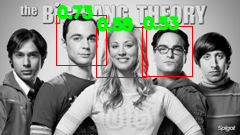
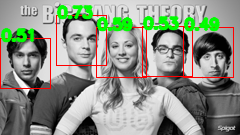
fix some TINY errors

Changed region(s): [[0.7583, 0.1185, 0.9917, 0.5926], [0.0, 0.2074, 0.2333, 0.6815], [0.4958, 0.1185, 0.5542, 0.237]]

diff --git a/Homework2/HOG_ver1.py b/Homework2/HOG_ver1.py
@@ -6,7 +6,7 @@ import matplotlib.pyplot as plt
 def get_differential_filter():
     # TODO: implement this function
     # 3 by 3 Sobel filter
-    filter_x = np.array([[-1, 0, 1], [-2, 0, 2], [-1, 0, 1]])
+    filter_x = np.array([[1, 0, -1], [2, 0, -2], [1, 0, -1]])
     filter_y = np.array([[1, 2, 1], [0, 0, 0], [-1, -2, -1]])
     return filter_x, filter_y
 
@@ -45,7 +45,7 @@ def build_histogram(grad_mag, grad_angle, cell_size):
     
     bins = [np.deg2rad(d) for d in range(15, 180, 30)]
     ind = np.digitize(grad_angle, bins)
-    ind = np.where(ind == 6, 0, ind)
+    ind = np.where(ind == 6, 0, ind)    # [165, 180) and [0, 15) is in the same index
     for i in range((h // cell_size) * cell_size):
         ii = i // cell_size
         for j in range((w // cell_size) * cell_size):
@@ -116,7 +116,7 @@ def face_recognition(I_target, I_template):
     # Use thresholing and NMS(non-maximum suppresion) with IoU 50%
     # bounding boxes: array of (x, y, s)
     # s: NCC(normalized cross-correlation) between the bounding box patch and the template
-    threshold_NCC = 0.5
+    threshold_NCC = 0.45
     threshold_IoU = 0.5
     target_h, target_w = I_target.shape
     template_h, template_w = I_template.shape
@@ -132,7 +132,7 @@ def face_recognition(I_target, I_template):
             patch_hog = extract_hog(patch)
             a = patch_hog.flatten()
             a -= np.mean(a)
-            s = np.dot(a, b) / (np.linalg.norm(a, 2) * np.linalg.norm(b, 2))
+            s = abs(np.dot(a, b) / (np.linalg.norm(a) * np.linalg.norm(b)))
             if s > threshold_NCC:
                 proposals.append(np.array([j, i, s]))   # row: [x, y, s]
     # NMS with IoU 50%
@@ -149,13 +149,16 @@ def face_recognition(I_target, I_template):
             # calculate IoU
             x3, y3, _ = box
             x4, y4 = x3 + template_w, y3 + template_h
-            x_inter1 = max(x1, x3)
-            y_inter1 = max(y1, y3)
-            x_inter2 = min(x2, x4)
-            y_inter2 = min(y2, y4)
-            area_inter = abs(x_inter2 - x_inter1) * abs(y_inter2 - y_inter1)
-            area_union = template_h * template_w * 2 - area_inter
-            IoU = area_inter / area_union
+            if (x3 > x2) or (x1 > x4) or (y3 > y2) or (y1 > y4):
+                IoU = 0
+            else:
+                x_inter1 = max(x1, x3)
+                y_inter1 = max(y1, y3)
+                x_inter2 = min(x2, x4)
+                y_inter2 = min(y2, y4)
+                area_inter = abs(x_inter2 - x_inter1) * abs(y_inter2 - y_inter1)
+                area_union = template_h * template_w * 2 - area_inter
+                IoU = area_inter / area_union
             if IoU < threshold_IoU:
                 new_proposals.append(box)
         proposals = new_proposals
